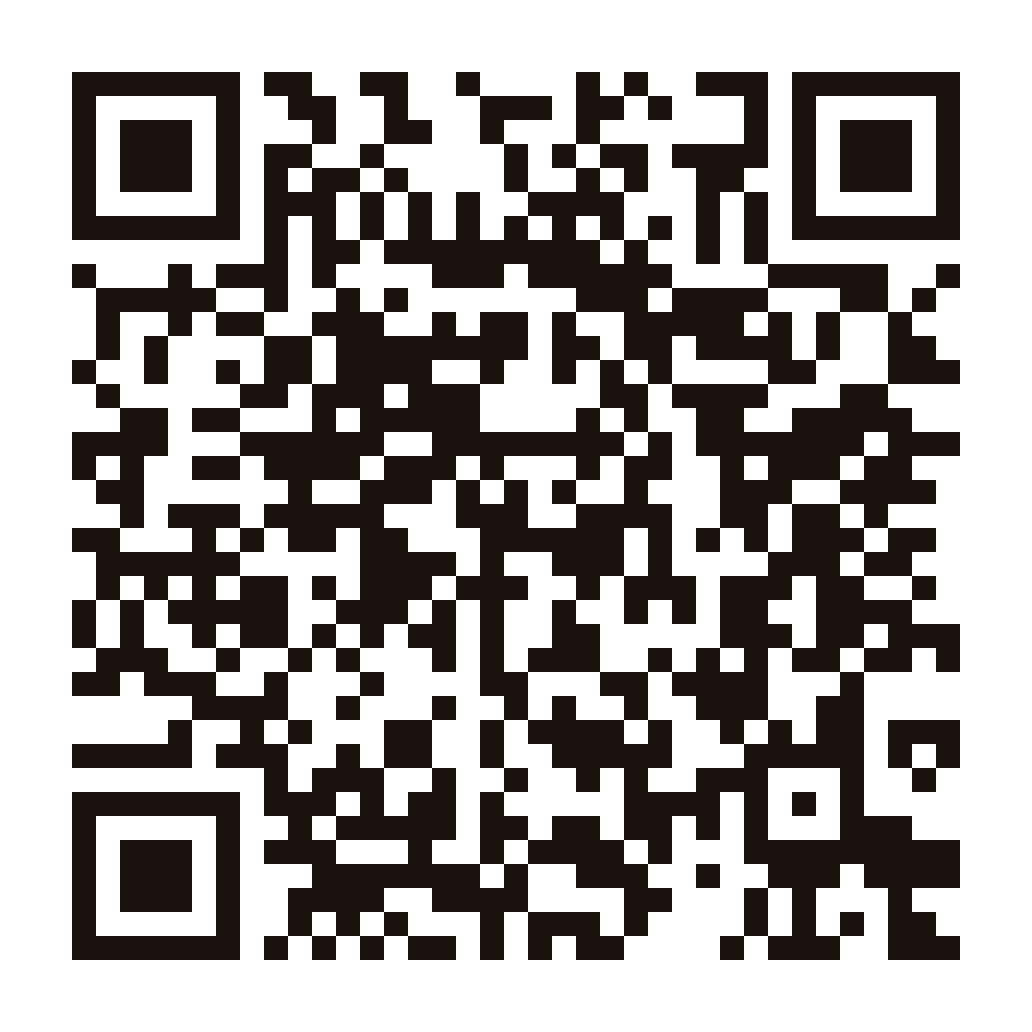
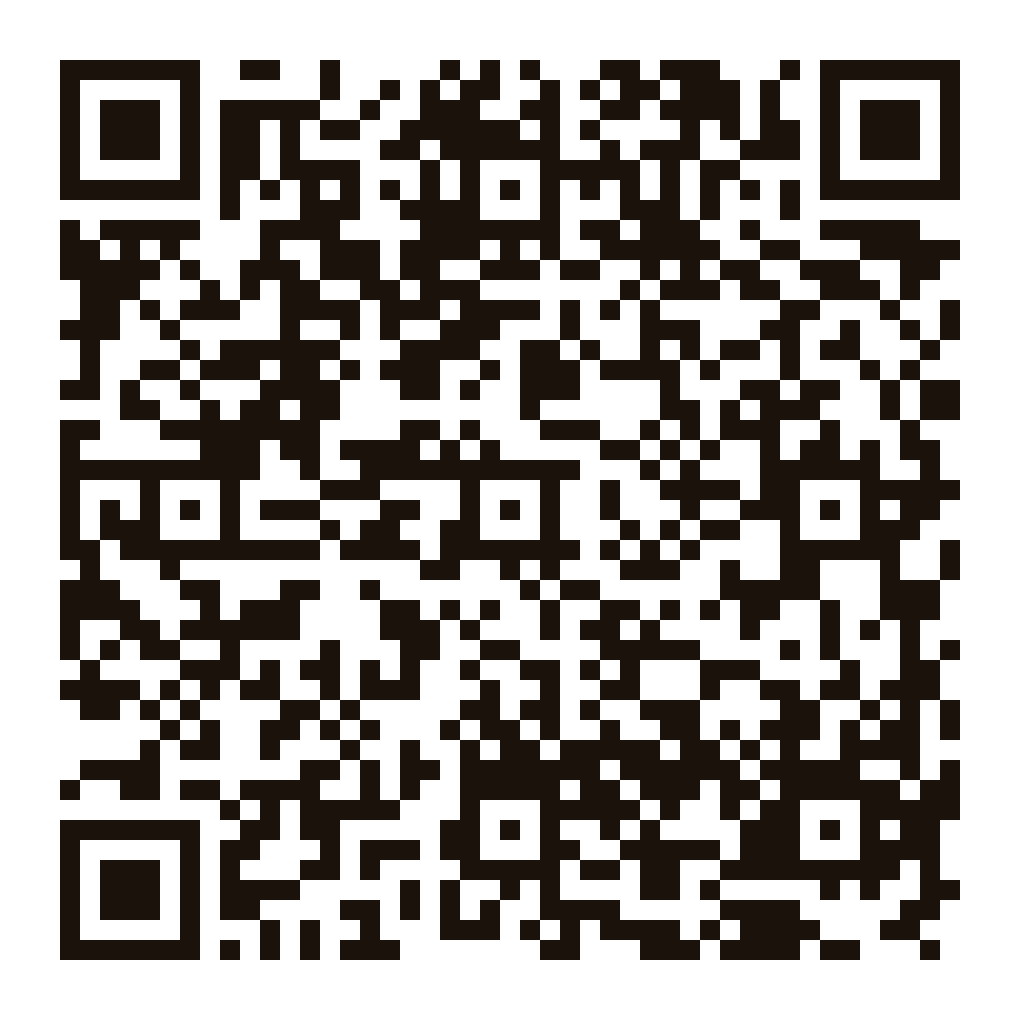
QR-Codes führen direkt zu WhatsApp, Nummer auf Aushang und Karten (#40)
Claude-Session: https://claude.ai/code/session_01Emp5GwUFmLehWXG9JbWewG

diff --git a/angebot/aushang.html b/angebot/aushang.html
@@ -44,11 +44,12 @@ h1.head{font-size:11mm;line-height:1.02;color:var(--bark)}
 .qrbox img{display:block;width:40mm;height:40mm}
 .qrtext .hand{font-size:10mm;color:var(--amber);line-height:1}
 .qrtext p{font-size:4.4mm;color:var(--wood);margin-top:2mm;line-height:1.4}
+.qrtext .nr{font-size:4.6mm;color:var(--bark);font-weight:800}
 
 .tabs{flex-shrink:0;display:grid;grid-template-columns:repeat(8,1fr);border-top:.5mm dashed var(--wood);height:48mm}
 .tab{min-height:0;overflow:hidden;border-right:.4mm dashed var(--wood);display:flex;flex-direction:column;align-items:center;justify-content:space-between;padding:2.5mm 1mm 3mm;background:var(--paper)}
 .tab:last-child{border-right:none}
-.tab img{width:19mm;height:19mm;display:block}
+.tab img{width:21mm;height:21mm;display:block}
 .tab .t{writing-mode:vertical-rl;transform:rotate(180deg);font-size:3.1mm;font-weight:800;color:var(--bark);text-align:center;line-height:1.1}
 .tab .t span{color:var(--amber)}
 .scissors{position:absolute;left:3mm;bottom:45.5mm;font-size:4mm;color:var(--wood);background:var(--cream);padding:0 1mm}
@@ -67,7 +68,7 @@ h1.head{font-size:11mm;line-height:1.02;color:var(--bark)}
   <h1>🖨 Aushang A4 (nur für Moni)</h1>
   <p>Drucken → „Als PDF speichern“ oder direkt an den Drucker, A4 Hochformat, Ränder „keine“. Unten die Abreißzettel bis zur gestrichelten Linie einschneiden.</p>
   <p>Für einen bestimmten Laden: Adresse mit <code>?wo=name</code> aufrufen, z. B. <code>aushang.html?wo=hundeschule-xy</code>. Den passenden QR-Code macht der Leitwolf (<code>qr/qr_machen.py</code>). Dann siehst du in der WhatsApp, woher die Leute kommen.</p>
-  <div class="warn" id="warn"><b>Erst drucken, wenn die Angebotsseite auf deinem Handy aufgeht.</b> Und der Entwurf-Hinweis raus is (Preise freigegeben).</div>
+  <div class="warn" id="warn"><b>Vorm Drucken einmal mit dem Handy scannen</b> und gucken, ob WhatsApp mit der richtigen Nachricht aufgeht. Und erst drucken, wenn Preise und Termine freigegeben sind.</div>
   <button onclick="window.print()">Drucken / als PDF speichern</button>
 </div>
 
@@ -100,7 +101,7 @@ h1.head{font-size:11mm;line-height:1.02;color:var(--bark)}
     <div class="qrbox"><img class="qr" alt="QR-Code zur Angebotsseite"></div>
     <div class="qrtext">
       <div class="hand">Einfach scannen 📱</div>
-      <p>Alle Infos angucken und per WhatsApp oder Mail anfragen. Die Nachricht is schon vorgeschrieben, du musst nur noch abschicken.</p>
+      <p>Dann geht WhatsApp auf, die Nachricht an mich is schon vorgeschrieben. Nur noch abschicken, ich meld mich persönlich.</p><p class="nr" id="nr"></p>
     </div>
   </div>
 
@@ -123,7 +124,7 @@ h1.head{font-size:11mm;line-height:1.02;color:var(--bark)}
   if (gutscheine.length) $("gift").innerHTML = "🎁 Oder als <b>Gutschein zum Verschenken</b>, ab " + gutscheine[0].preis + ". Geshootet wird im neuen Jahr.";
 
   let tabs = "";
-  for (let i = 0; i < 8; i++) tabs += '<div class="tab"><div class="t">POTT<span>PIC</span> · Hundeshooting</div><img class="qr" alt="QR"></div>';
+  for (let i = 0; i < 8; i++) tabs += '<div class="tab"><div class="t">POTT<span>PIC</span> · WhatsApp</div><img class="qr" alt="QR"></div>';
   $("tabs").innerHTML = tabs;
 
   // QR für diesen Ort, sonst der allgemeine Aushang-Code
@@ -133,7 +134,7 @@ h1.head{font-size:11mm;line-height:1.02;color:var(--bark)}
   test.onerror = () => { qrs.forEach(q => q.src = "qr/aushang.svg"); if (wo !== "aushang") $("warn").innerHTML += "<br>⚠ Für „" + wo + "“ gibt's noch keinen eigenen QR-Code, drauf is grad der allgemeine."; };
   test.src = "qr/" + wo + ".svg";
 
-  if (!K.entwurf) { const w = $("warn"); w.innerHTML = w.innerHTML.replace(/ Und der Entwurf-Hinweis.*?\)\./, ""); }
+  if (K.whatsapp) { const n = K.whatsapp.replace(/^49/, "0"); $("nr").textContent = "Oder direkt: WhatsApp " + n.slice(0, 4) + " " + n.slice(4); }
 
   const ph = new Image();
   ph.onload = () => { $("photo").style.backgroundImage = "url('bilder/hero.jpg')"; $("photo").textContent = ""; };

diff --git a/angebot/karten.html b/angebot/karten.html
@@ -43,7 +43,7 @@ body{font-family:system-ui,-apple-system,"Segoe UI",Arial,sans-serif;background:
   <h1>🖨 Karten zum Auslegen (nur für Moni)</h1>
   <p>8 Karten pro A4-Blatt, an den gestrichelten Linien schneiden. Am besten auf dickerem Papier (ab ca. 200 g) drucken, dann nehmen Leute die eher mit.</p>
   <p>Für einen bestimmten Laden: <code>karten.html?wo=name</code> (QR-Code dafür macht der Leitwolf).</p>
-  <div class="warn" id="warn"><b>Erst drucken, wenn die Angebotsseite auf deinem Handy aufgeht</b> und die Preise freigegeben sind.</div>
+  <div class="warn" id="warn"><b>Vorm Drucken einmal mit dem Handy scannen</b> und gucken, ob WhatsApp aufgeht. Und erst drucken, wenn Preise und Termine freigegeben sind.</div>
   <button onclick="window.print()">Drucken / als PDF speichern</button>
 </div>
 <div class="sheet" id="sheet"></div>
@@ -56,6 +56,7 @@ body{font-family:system-ui,-apple-system,"Segoe UI",Arial,sans-serif;background:
   const mini = K.angebote.find(a => a.id === "mini") || K.angebote[0];
   const gs = K.angebote.filter(a => a.id !== "mini");
   const tage = K.miniTermine.replace(/\s*und\s*/, " & ");
+  const n0 = (K.whatsapp || "").replace(/^49/, "0"), nr = n0.slice(0, 4) + " " + n0.slice(4);
 
   const card =
     '<div class="card"><div class="l">' +
@@ -63,8 +64,8 @@ body{font-family:system-ui,-apple-system,"Segoe UI",Arial,sans-serif;background:
       '<div><div class="k hand">Weihnachten mit Hund</div>' +
       '<div class="h">Mini-Shooting ' + tage + ' · ' + mini.preis + '</div></div>' +
       '<div class="d">20 Minuten, 5 Lieblingsbilder, dein Hund darf einfach Hund sein.' +
-      (gs.length ? '<br>🎁 Auch als Gutschein, ab ' + gs[0].preis + '.' : '') + '</div>' +
-    '</div><div class="r"><div class="q"><img class="qr" alt="QR-Code"></div><div class="s">Scannen &<br>Platz sichern</div></div></div>';
+      (gs.length ? '<br>🎁 Auch als Gutschein, ab ' + gs[0].preis + '.' : '') + (K.whatsapp ? '<br><b>WhatsApp ' + nr + '</b>' : '') + '</div>' +
+    '</div><div class="r"><div class="q"><img class="qr" alt="QR-Code"></div><div class="s">Scannen &<br>per WhatsApp<br>anfragen</div></div></div>';
   $("sheet").innerHTML = card.repeat(8);
 
   const qrs = document.querySelectorAll("img.qr"), t = new Image();

diff --git a/angebot/konfig.js b/angebot/konfig.js
@@ -10,7 +10,7 @@ const KONFIG = {
   entwurf: true,
 
   // WhatsApp-Nummer mit Ländervorwahl, ohne + und ohne Leerzeichen, z. B. "4917612345678"
-  whatsapp: "",
+  whatsapp: "4917621681512",
 
   // Deine Mail-Adresse für Anfragen
   mail: "",

diff --git a/angebot/qr/qr_machen.py b/angebot/qr/qr_machen.py
@@ -1,23 +1,40 @@
 """QR-Codes für Aushang und Karten bauen (0 €, offline).
 
 Aufruf:  python3 angebot/qr/qr_machen.py aushang karte hundeschule-xy
-Macht pro Name eine Datei angebot/qr/<name>.svg, die auf
-<seitenUrl>?von=<name> zeigt. Die Adresse steht in angebot/konfig.js.
-Braucht: pip install qrcode
+
+Steht in angebot/konfig.js eine WhatsApp-Nummer, führt der Code direkt
+zu WhatsApp, mit fertiger Nachricht an Moni, inkl. Herkunft.
+Sonst führt er auf die Angebotsseite (<seitenUrl>?von=<name>).
+Macht pro Name angebot/qr/<name>.svg und <name>.png.
+Braucht: pip install qrcode pillow
 """
-import pathlib, re, sys
+import pathlib, re, sys, urllib.parse
 import qrcode, qrcode.image.svg
 
 hier = pathlib.Path(__file__).resolve().parent
 konfig = (hier.parent / "konfig.js").read_text(encoding="utf-8")
-url = re.search(r'seitenUrl:\s*"([^"]+)"', konfig).group(1)
+url = re.search(r'seitenUrl:\s*"([^"]*)"', konfig).group(1)
+wa = re.search(r'whatsapp:\s*"([^"]*)"', konfig).group(1)
+
+HERKUNFT = {"aushang": "hab deinen Aushang gesehen", "karte": "hab deine Karte mitgenommen"}
+
+def ziel(name):
+    if wa:
+        wo = HERKUNFT.get(name, f"hab deinen Aushang bei {name.replace('-', ' ').title()} gesehen")
+        text = f"Hey Moni, {wo} und will mehr wissen!"
+        return f"https://wa.me/{wa}?text=" + urllib.parse.quote(text)
+    return f"{url}?von={name}"
 
 for name in sys.argv[1:] or ["aushang", "karte"]:
     if not re.fullmatch(r"[a-z0-9-]{1,40}", name):
         sys.exit(f"Name nur aus a-z, 0-9 und Bindestrich: {name}")
-    ziel = f"{url}?von={name}"
-    qr = qrcode.QRCode(error_correction=qrcode.constants.ERROR_CORRECT_M, border=2)
-    qr.add_data(ziel)
-    qr.make(fit=True)
-    qr.make_image(image_factory=qrcode.image.svg.SvgPathImage).save(hier / f"{name}.svg")
-    print(f"{name}.svg  ->  {ziel}")
+    z = ziel(name)
+    for fabrik, endung, extra in [(qrcode.image.svg.SvgPathImage, "svg", {}), (None, "png", {})]:
+        qr = qrcode.QRCode(error_correction=qrcode.constants.ERROR_CORRECT_M, border=2 if endung == "svg" else 3, box_size=10 if endung == "svg" else 20)
+        qr.add_data(z)
+        qr.make(fit=True)
+        if fabrik:
+            qr.make_image(image_factory=fabrik).save(hier / f"{name}.{endung}")
+        else:
+            qr.make_image(fill_color="#1a120b", back_color="white").convert("RGB").save(hier / f"{name}.{endung}")
+    print(f"{name}  ->  {urllib.parse.unquote(z)}  (Version {qr.version})")

diff --git a/pottpic-team/umsetzung/2026-11-15-kundenmagnet-weihnachten.md b/pottpic-team/umsetzung/2026-11-15-kundenmagnet-weihnachten.md
@@ -50,7 +50,7 @@ Plus der **direkte Weg**, der am schnellsten Geld bringt: Du schreibst die Leute
 | **Karten zum Auslegen** | `angebot/karten.html` | 8 Karten pro A4-Blatt zum Ausschneiden, mit QR. Am besten auf dickem Papier. |
 | **QR-Codes** | `angebot/qr/` | `aushang.svg` und `karte.svg`, beide geprüft und lesbar. Eigene Codes pro Laden macht `qr/qr_machen.py`. |
 
-**Wohin der QR-Code führt:** `https://pottpic.github.io/Pfotenfreunde-Herzensmoment-Tracker/angebot/?von=aushang` (bzw. `?von=karte`). Wer darüber kommt, hat in der WhatsApp/Mail automatisch „(Hab deinen Aushang gesehen)“ bzw. „(Hab deine Karte mitgenommen)“ stehen. Mit eigenem Code pro Laden (z. B. `?von=hundeschule-xy`) steht da der Laden. So siehst du, welcher Aushang was bringt. **Erst drucken, wenn die Seite auf dem Handy aufgeht.**
+**Wohin der QR-Code führt (seit 15.11. abends):** direkt zu **WhatsApp** an 0176 21681512, mit fertiger Nachricht „Hey Moni, hab deinen Aushang gesehen und will mehr wissen!“ (bzw. „… hab deine Karte mitgenommen …“). Keine Webseite nötig, GitHub Pages muss dafür nich an sein. Eigene Codes pro Laden: `python3 angebot/qr/qr_machen.py hundeschule-xy` → in der Nachricht steht dann der Laden. Die Nummer steht auch als Text auf Aushang und Karten.
 
 Alles zum Ändern (Preise, Termine, Nummer, Mail) steht in **`angebot/konfig.js`** und gilt für Seite, Aushang und Karten gleichzeitig. Oder du sagst's einfach in der nächsten Sitzung, dann trag ich's ein.
 
